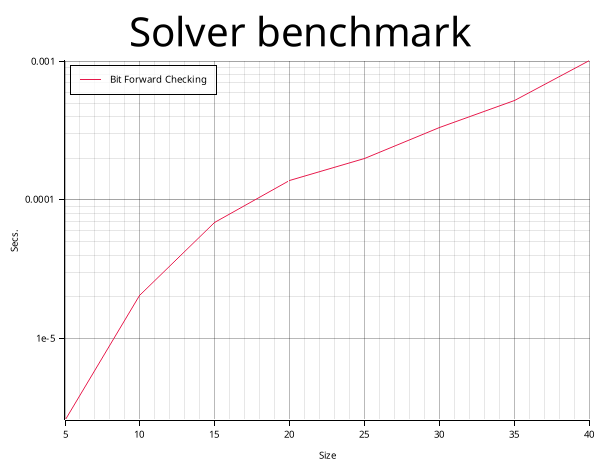
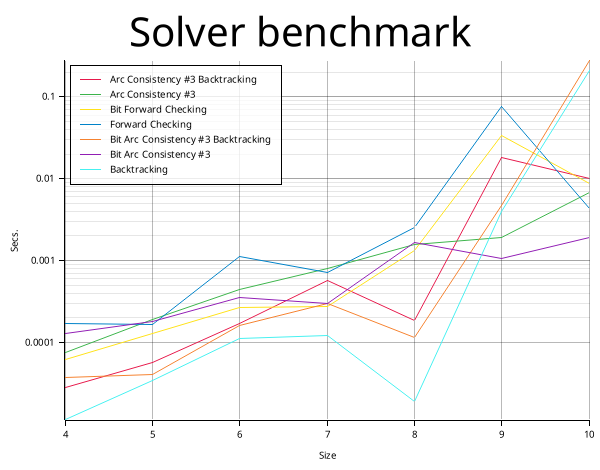
Fix FC and bench stat join

diff --git a/src/solver/fc_solver.rs b/src/solver/fc_solver.rs
@@ -149,8 +149,8 @@ impl FCSolver<'_> {
         if id == cid {
             return Some(());
         }
-        (self.values[id].remove(val) && !self.values[id].is_empty())
-            .then_some(())
+        self.values[id].remove(val);
+        (!self.values[id].is_empty()).then_some(())
     }
 
     /// Removes values that are in conflict with the inequality
@@ -161,11 +161,11 @@ impl FCSolver<'_> {
         val: usize,
         id: usize,
     ) -> Option<()> {
-        let changed = match cond {
+        let _changed = match cond {
             Some(true) => self.values[id].remove_lower(val),
             Some(false) => self.values[id].remove_greater(val),
             None => return Some(()),
         };
-        (changed && !self.values[id].is_empty()).then_some(())
+        (!self.values[id].is_empty()).then_some(())
     }
 }

diff --git a/src/bench/bench_stat.rs b/src/bench/bench_stat.rs
@@ -24,7 +24,7 @@ impl BenchStat {
         self.total_time += other.total_time;
         self.cnt += other.cnt;
         self.min_time = self.min_time.min(other.min_time);
-        self.max_time = self.max_time.min(other.max_time);
+        self.max_time = self.max_time.max(other.max_time);
     }
 
     pub fn avg_time(&self) -> Duration {
